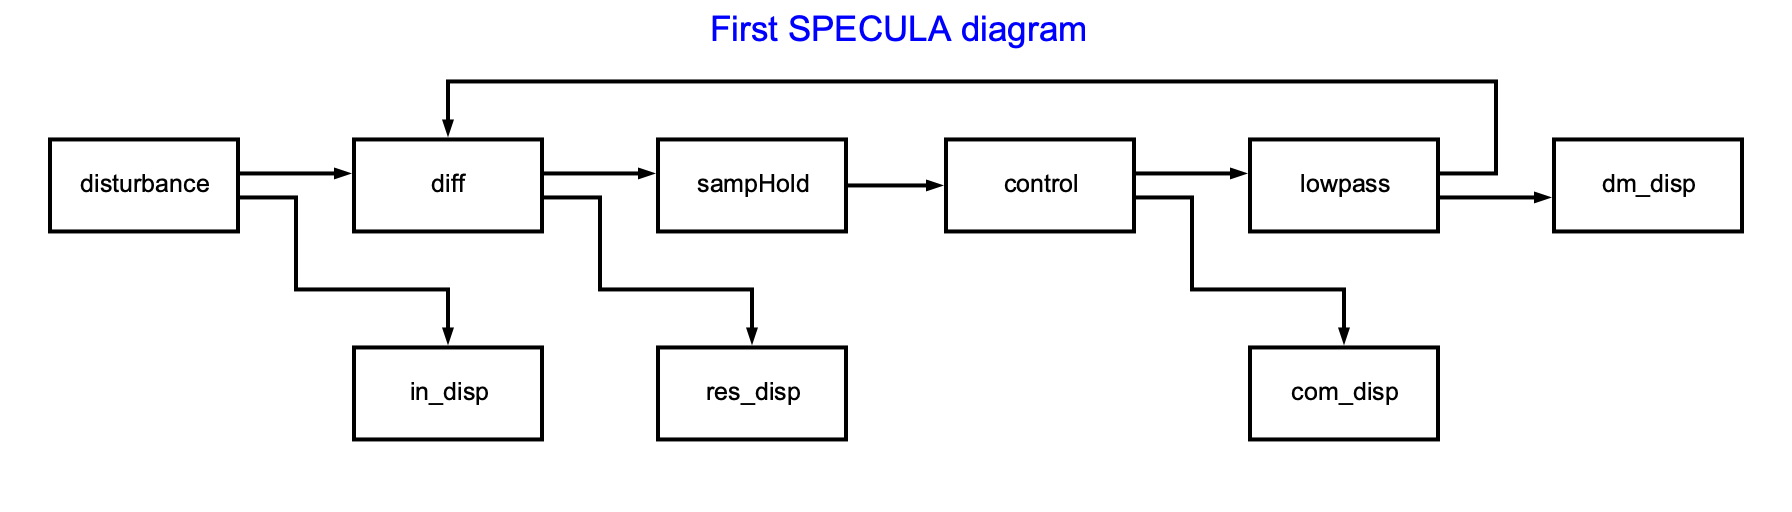
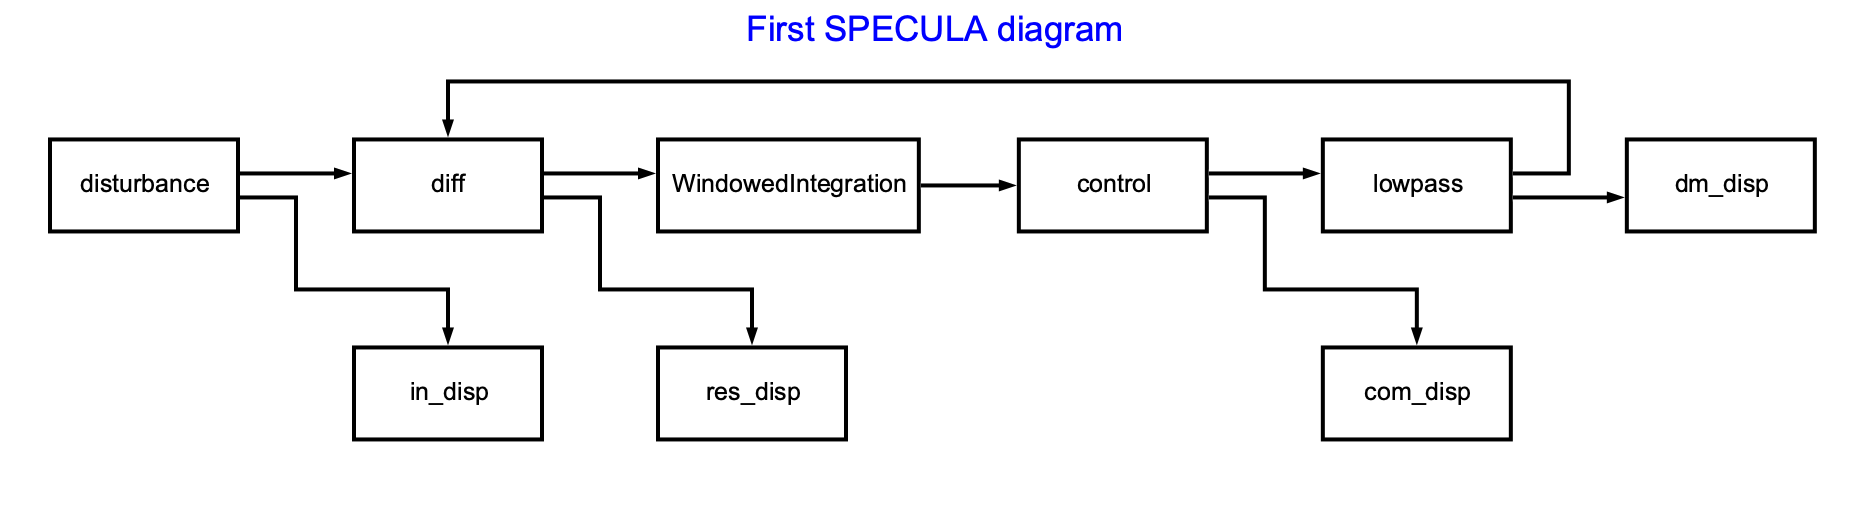
(GA) windowed integration

diff --git a/specula/processing_objects/windowed_integration.py b/specula/processing_objects/windowed_integration.py
@@ -1,0 +1,53 @@
+
+from specula.base_processing_obj import BaseProcessingObj
+from specula.connections import InputValue
+from specula.base_value import BaseValue
+
+
+class WindowedIntegration(BaseProcessingObj):
+    '''Simple windowed integration of a signal'''
+    def __init__(self, nmodes, dt,
+                 target_device_idx=None, precision=None):
+        super().__init__(target_device_idx=target_device_idx, precision=precision)
+
+        self._dt = self.seconds_to_t(dt)
+        self._start_time = self.seconds_to_t(0)
+
+        self.inputs['input'] = InputValue(type=BaseValue)
+
+        self.nmodes = nmodes
+        self.output = BaseValue(target_device_idx=target_device_idx, value=self.xp.zeros(self.nmodes, dtype=self.dtype))
+        self.outputs['output'] = self.output
+        self.output_value = self.xp.zeros(self.nmodes, dtype=self.dtype)
+        
+    @property
+    def dt(self):
+        return self._dt
+
+    @dt.setter
+    def dt(self, value):
+        self._dt = self.seconds_to_t(value)
+
+    def trigger_code(self):
+        if self._start_time <= 0 or self.current_time >= self._start_time:
+            input = self.local_inputs['input']
+            if input.generation_time == self.current_time:
+                self.output.value *= 0.0
+                self.output.generation_time = self.current_time * 0.0
+                self.output_value += input.value * self._loop_dt / self._dt
+
+            if (self.current_time + self._loop_dt - self._dt - self._start_time) % self._dt == 0:
+                self.output.value = self.output_value.copy()
+                self.output.generation_time = self.current_time
+                self.output_value *= 0.0
+
+    def setup(self, loop_dt, loop_niters):
+        super().setup(loop_dt, loop_niters)
+        input = self.inputs['input'].get(self.target_device_idx)
+        if input is None:
+            raise ValueError('Input object has not been set')
+        if self._dt <= 0:
+            raise ValueError(f'dt (integration time) is {self._dt} and must be greater than zero')
+        if self._dt % loop_dt != 0:
+            raise ValueError(f'integration time dt={self._dt} must be a multiple of the basic simulation time_step={loop_dt}')
+
